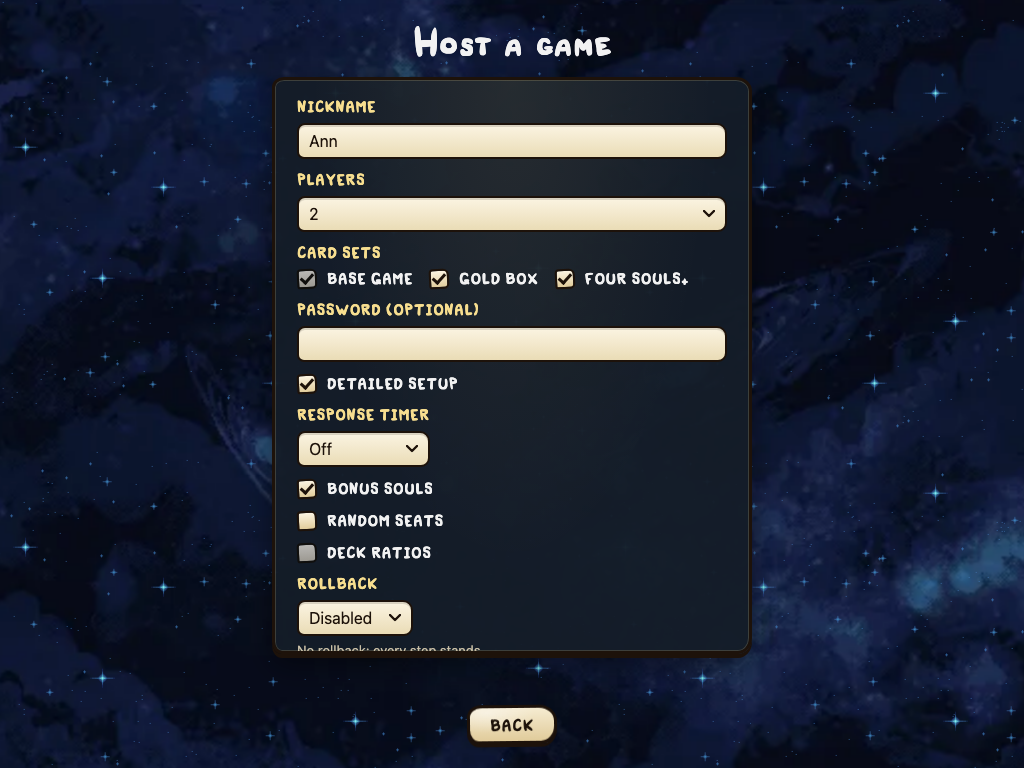
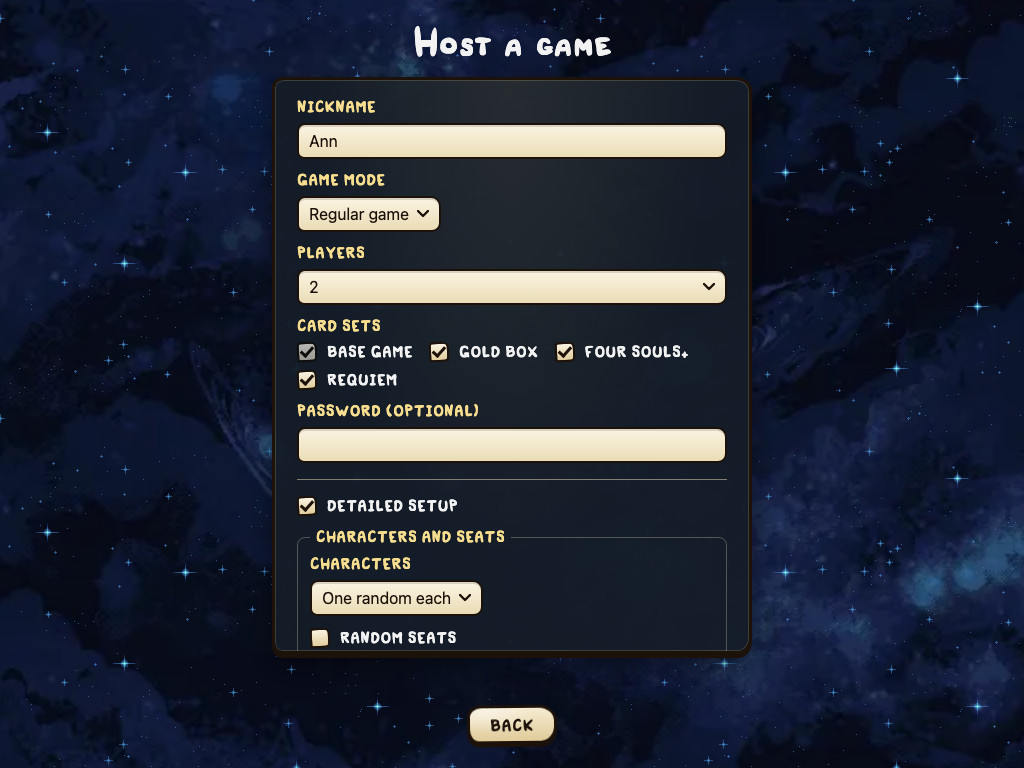
Updated GIF for README

diff --git a/e2e/tests/lobby.spec.ts b/e2e/tests/lobby.spec.ts
@@ -15,8 +15,10 @@ test('two apps reach the same lobby and start the game', async ({ browser }) => 
   const ann = await (await browser.newContext()).newPage();
   const bo = await (await browser.newContext()).newPage();
 
+  // Both apps offer Requiem (?requiem), as the real app does, so the
+  // host screen's shot shows every set.
   await realAssets(ann);
-  await ann.goto(appURL());
+  await ann.goto(`${appURL()}&requiem`);
   await openHost(ann);
   await ann.getByLabel(tr('lobby.nickname')).fill('Ann');
   await ann.getByLabel(tr('host.detailed')).check();
@@ -28,7 +30,7 @@ test('two apps reach the same lobby and start the game', async ({ browser }) => 
   const id = await gameId(ann);
 
   await realAssets(bo);
-  await bo.goto(appURL());
+  await bo.goto(`${appURL()}&requiem`);
   await openOnline(bo);
   await bo.getByLabel(tr('lobby.nickname')).fill('Bo');
   await bo.getByLabel(tr('lobby.online.address')).fill(address());
